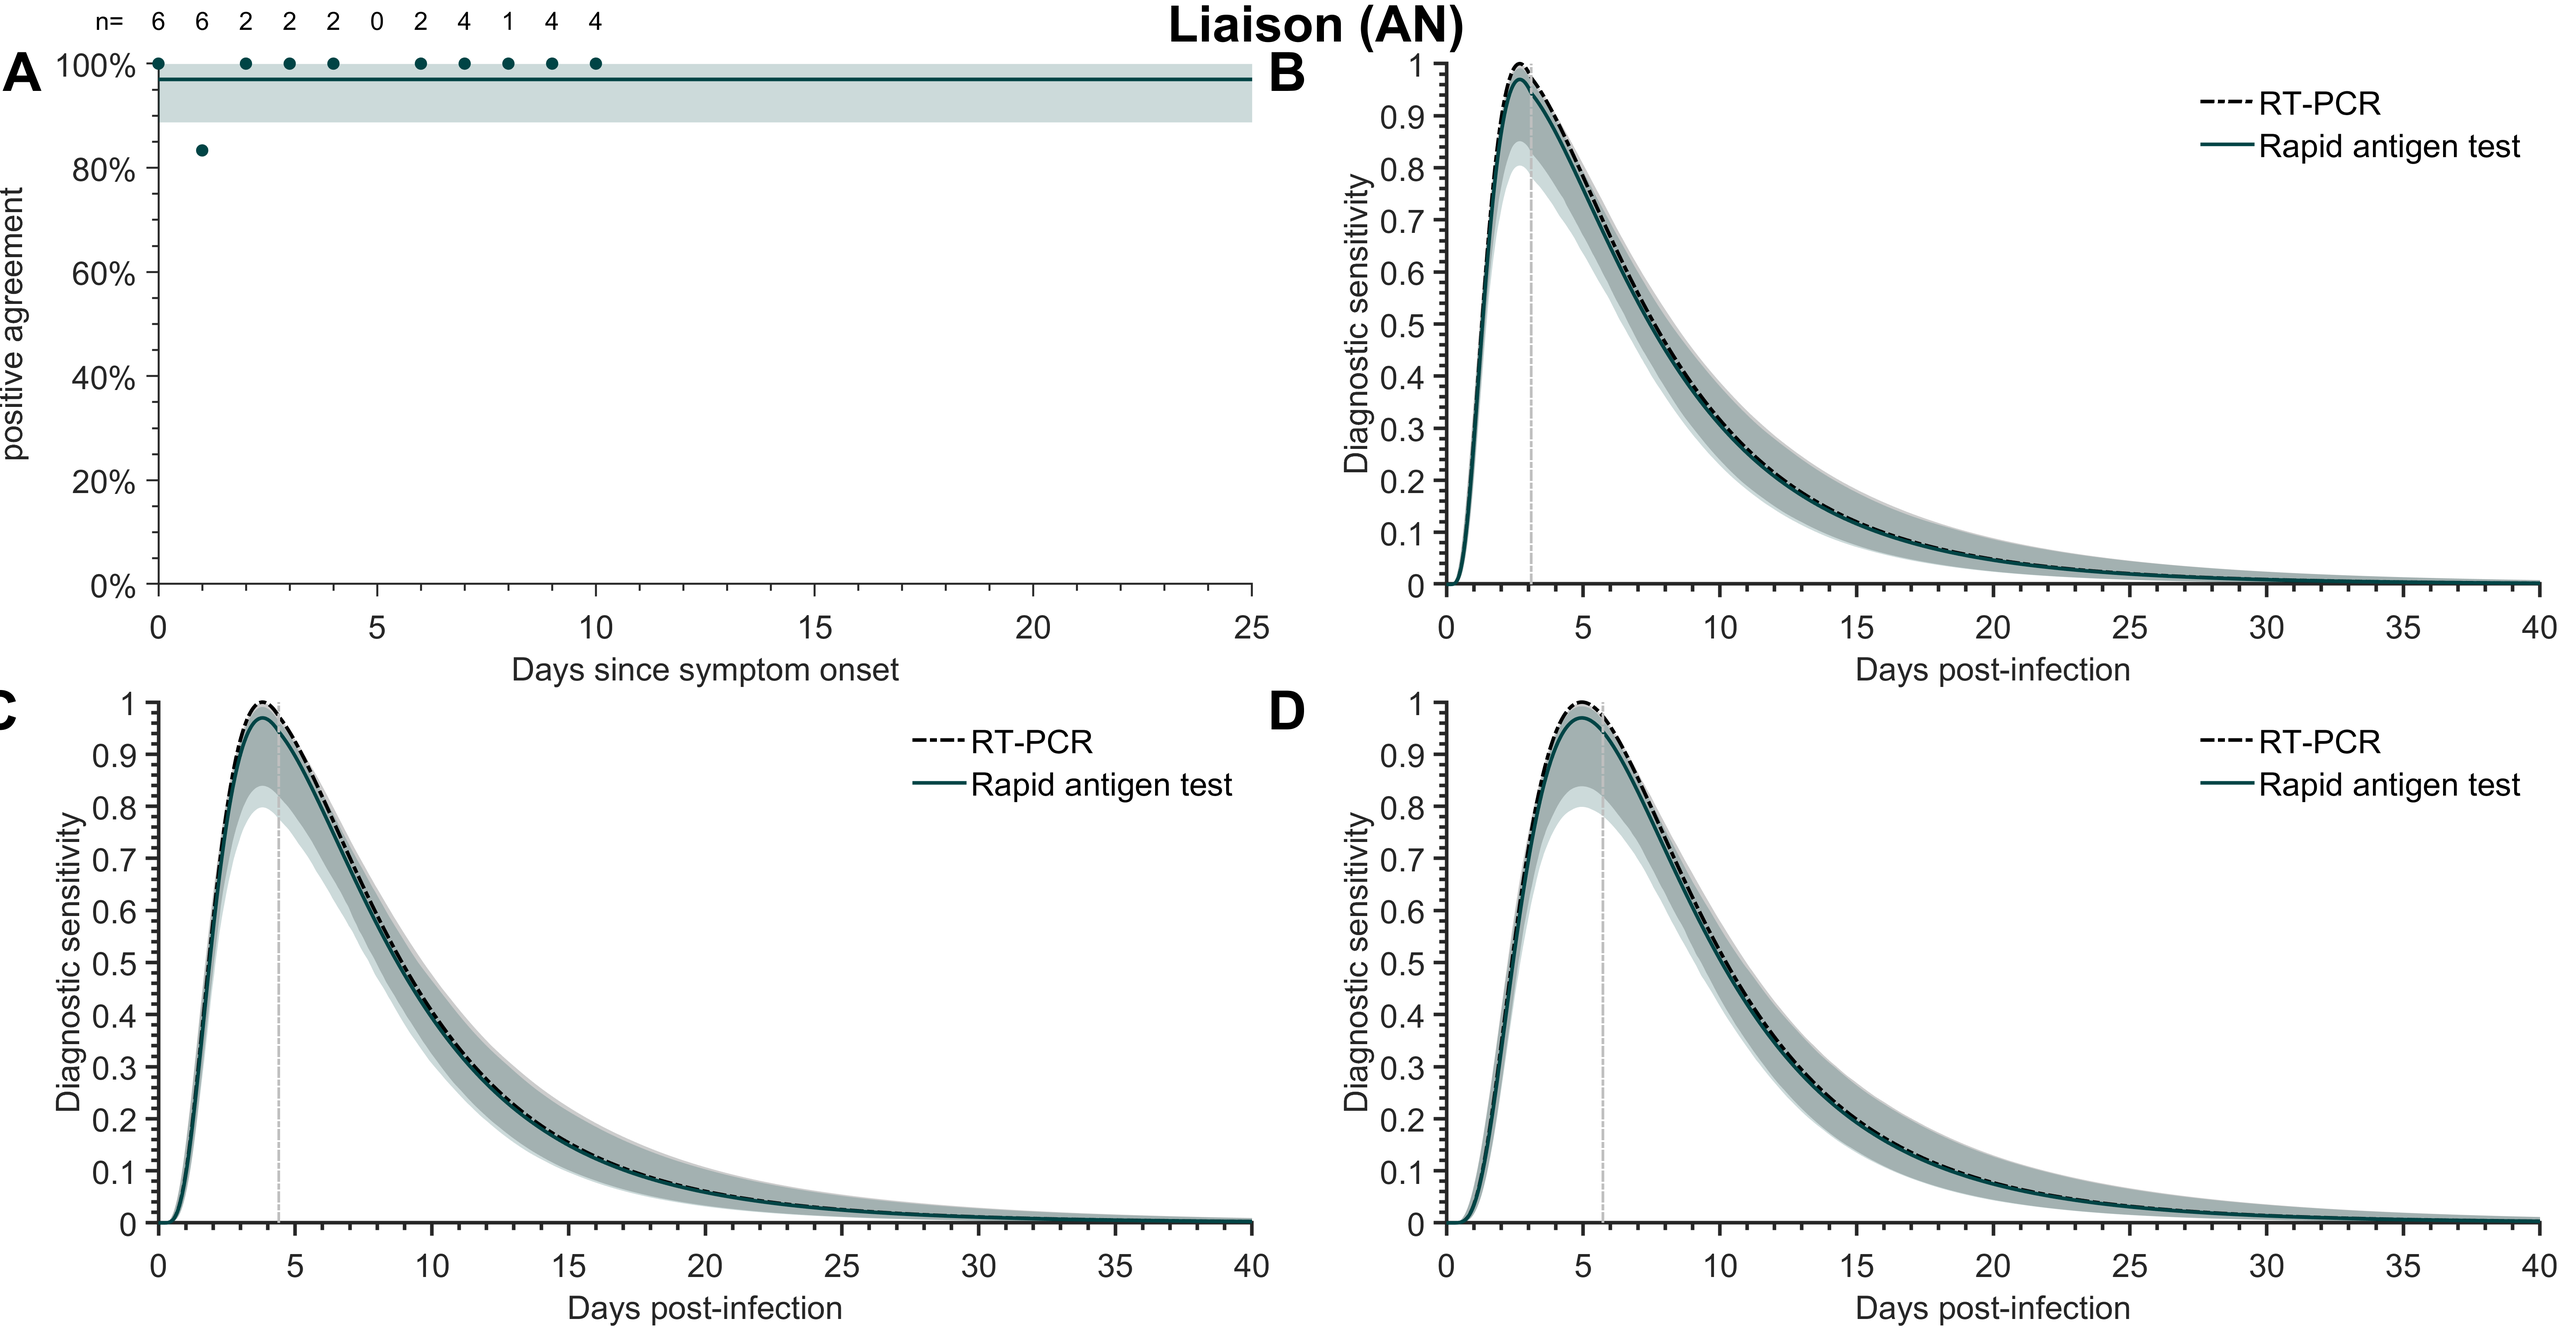
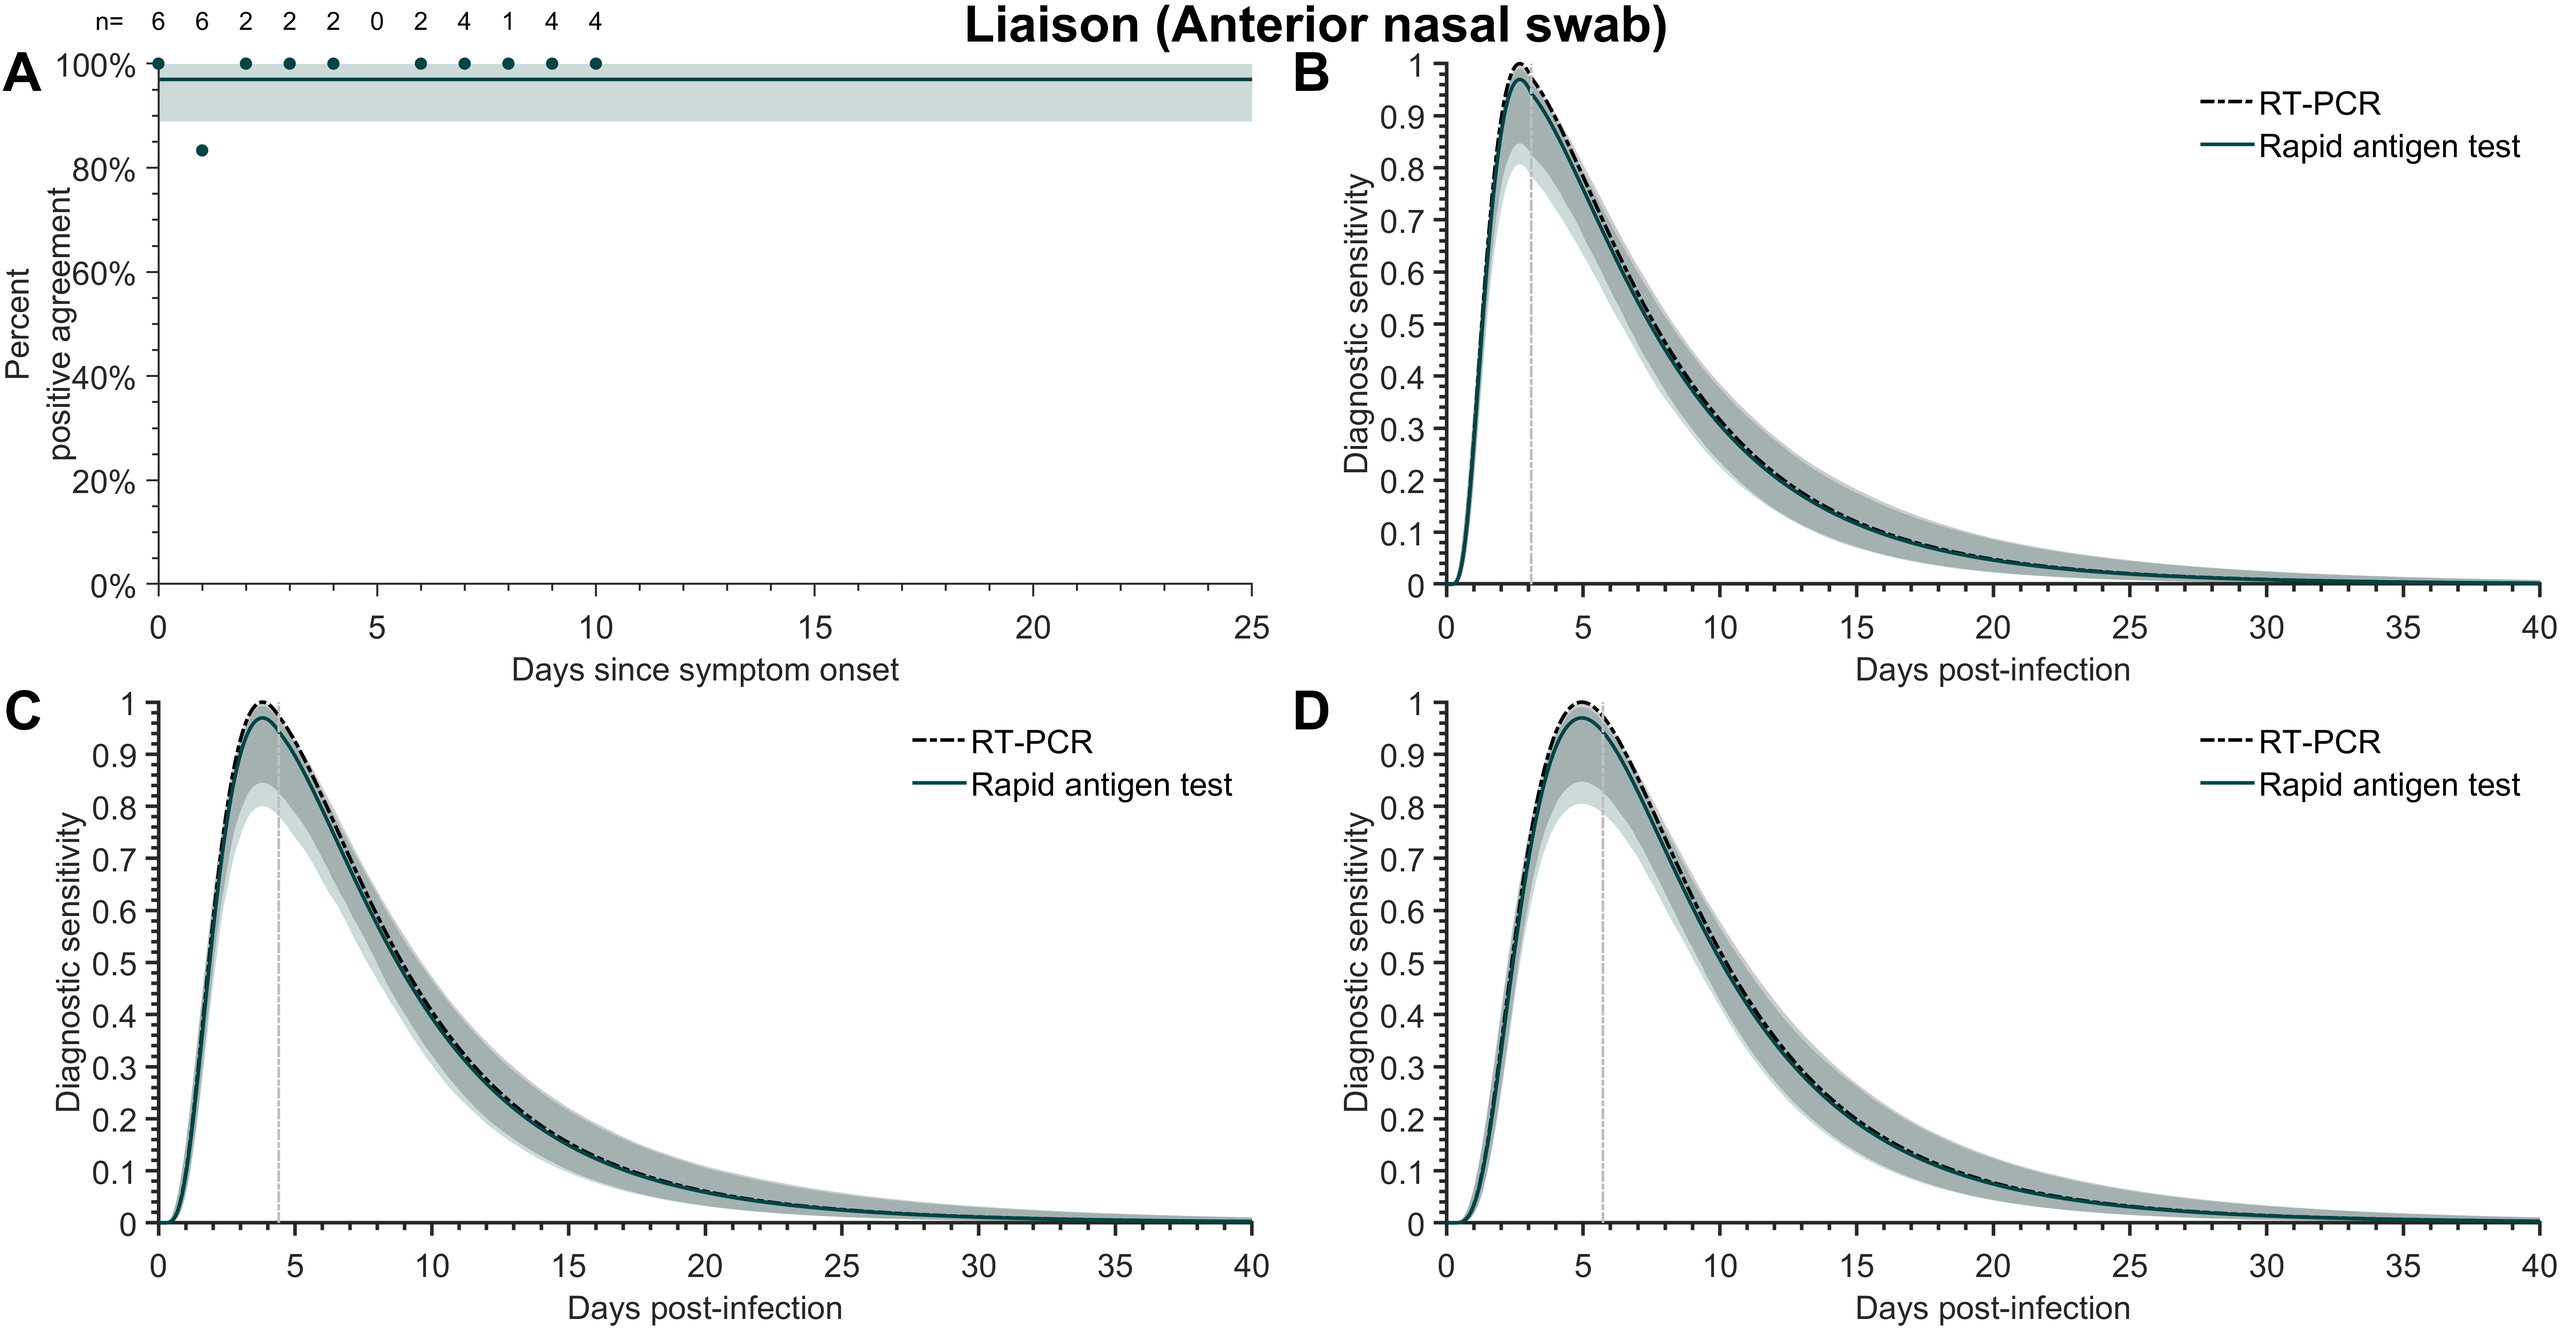
update figure legend and titles
had to regenerate figures to eliminate acronyms and adjust some of the labeling as it was cut off

diff --git a/Plot_PPA_RA_Sensitivity.m b/Plot_PPA_RA_Sensitivity.m
@@ -36,7 +36,7 @@ for ii=1:NumTests
                 set(gca,'LineWidth',1.1,'tickdir','out','Fontsize',18,'XTick',[0:5:40],'xlim',[0 25],'XMinorTick','on','Yminortick','on','YTick',[0:20:100],'Ylim',[0 100]);
                 ytickformat('percentage')
                 xlabel('Days since symptom onset','Fontsize',18);
-                ylabel({'Percent','positive agreement'},'Fontsize',18,'Position',[-2.94470530625081,50,-0.999999999999986]);
+                ylabel({'Percent','positive agreement'},'Fontsize',18,'Position',[-1.863123106003592,50,-0.999999999999986]);
                 text(-2.312574783683559.*25./40,108.4,'n=','Fontsize',14);
                 for ss=1:length(w)
                     if(~isnan(w(ss)))
@@ -99,7 +99,7 @@ for ii=1:NumTests
         set(gca,'LineWidth',2,'tickdir','out','Fontsize',18,'XTick',[0:5:40],'xlim',[0 40],'XMinorTick','on','Yminortick','on','YTick',[0:0.1:1],'Ylim',[0 1]);
         ylabel({'Diagnostic sensitivity'},'Fontsize',18);
         xlabel('Days post-infection','Fontsize',18);
-        text(-6.54739985398804,0.988,char(65+jj),'Fontsize',30,'FontWeight','bold');
+        text(-5.653893695920,0.988,char(65+jj),'Fontsize',30,'FontWeight','bold');
         legend([p1 p2],{'RT-PCR','Rapid antigen test'},'Fontsize',18);
         legend boxoff;
     end

diff --git a/AdjustedNames_Plotting.m b/AdjustedNames_Plotting.m
@@ -1,21 +1,21 @@
 function [Name] = AdjustedNames_Plotting(testName)
 
 if(strcmp('LumiraDX (Anterior Nasal Swab)',testName))
-    Name='LumiraDX (AN)';
+    Name='LumiraDX (Anterior nasal swab)';
 elseif(strcmp('CareStart (Anterior Nasal Swab - FDA)',testName))    
-    Name='CareStart (AN)';
+    Name='CareStart (Anterior nasal swab)';
 elseif(strcmp('BinaxNOW (FDA)',testName))  
     Name='BinaxNOW';
 elseif(strcmp('Liaison (Anterior Nasal Swab)',testName))
-    Name='Liaison (AN)';
+    Name='Liaison (Anterior nasal swab)';
 elseif(strcmp('Sofia (FDA)',testName))
     Name='Sofia';
 elseif(strcmp('Liaison (Nasalpharyngeal Swab)',testName))
-    Name='Liaison (NS)';
-elseif(strcmp('LumiraDX (Nasopharyngeal Swabs)',testName))
-    Name='LumiraDX (NS)';
+    Name='Liaison (Nasopharyngeal Swab)';
+elseif(strcmp('LumiraDX (Nasopharyngeal Swab)',testName))
+    Name='LumiraDX (Nasopharyngeal Swab)';
 elseif(strcmp('CareStart (Nasopharyngeal Swab)',testName))
-    Name='CareStart (NS)';
+    Name='CareStart (Nasopharyngeal Swab)';
 elseif(strcmp('SCoV-2',testName))
     Name='SCoV-2 Ag Detect';
 elseif(strcmp('Status COVID+Flu',testName))

diff --git a/FigureS4.m b/FigureS4.m
@@ -152,9 +152,9 @@ for vv=1:3
                 plot(ii+linspace(xx(nt),xx(nt)+dxx,101),100.*MLE_Red(nt,ii).*ones(101,1),'LineWidth',2,'color',Lcolour(nt,:));
             end
             if(nt==1)
-                text(5.45,58,'RT-PCR','Color',Lcolour(nt,:),'Fontsize',20);
+                text(4.15,58,'RT-PCR','Color',Lcolour(nt,:),'Fontsize',20);
             else
-                text(5.45,58-5.*(nt-1),AdjustedNames_Plotting(testName{nt-1}),'Color',Lcolour(nt,:),'Fontsize',20);                
+                text(4.15,58-5.*(nt-1),AdjustedNames_Plotting(testName{nt-1}),'Color',Lcolour(nt,:),'Fontsize',20);                
             end
         end
         set(gca,'LineWidth',2,'tickdir','out','Fontsize',18,'XTickLabel','','XTick',[1:6],'YTick',[0:10:60]);
